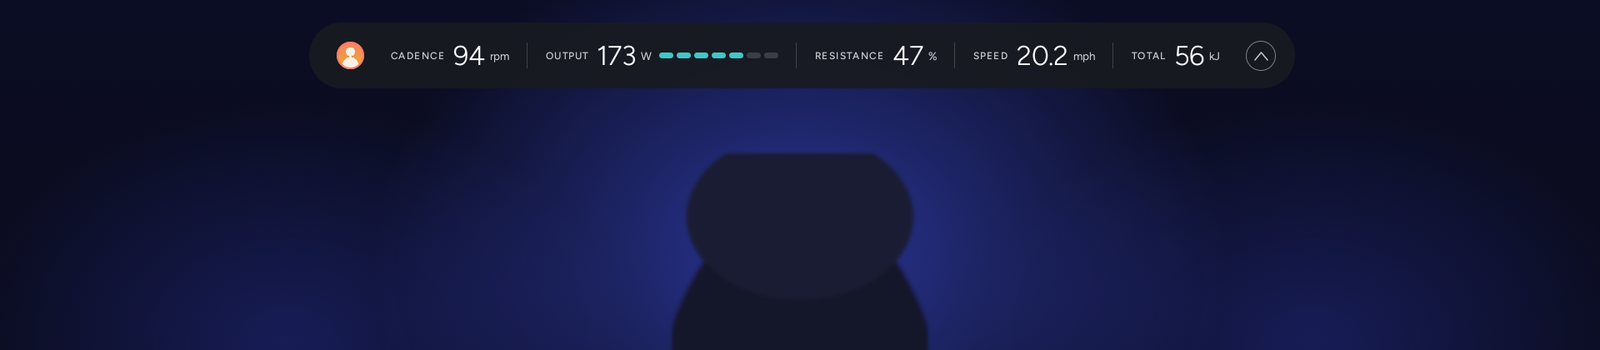
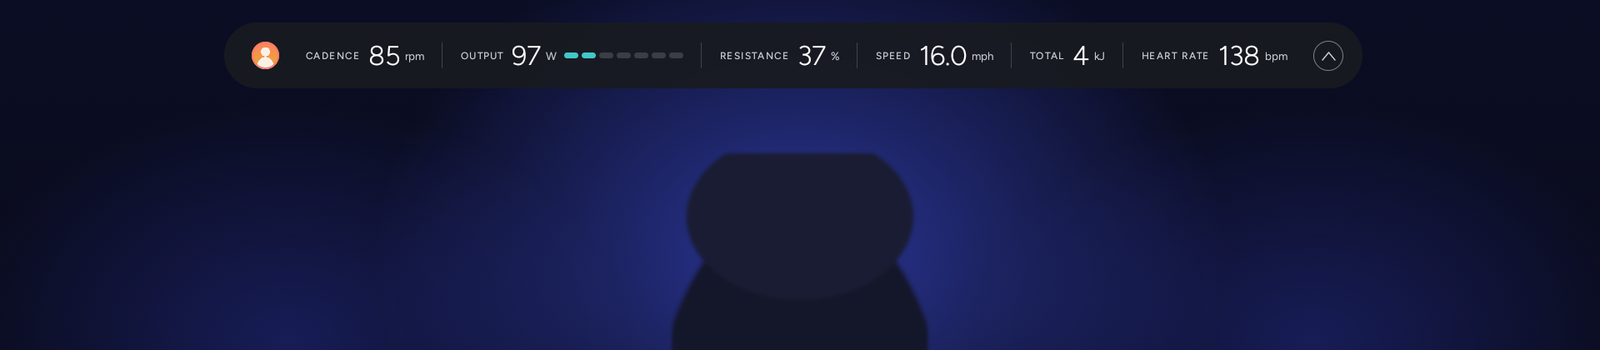
Update the README, screenshots and GIF for heart rate

Changed region(s): [[0.1562, 0.1143, 0.8438, 0.2]]

diff --git a/README.md b/README.md
@@ -9,19 +9,19 @@
 ![APK size](https://img.shields.io/badge/APK-under%201%20MB-41c7c7)
 ![License: MIT](https://img.shields.io/badge/License-MIT-lightgrey)
 
-<img src="docs/demo.gif" alt="PeloSkin over a spin class: the full metrics layout, a tap to shrink it to a single line, switching rider with the picture bubble, then holding the skin to end the ride and the summary card that follows" width="100%">
+<img src="docs/demo.gif" alt="PeloSkin over a spin class: the full layout with heart rate, switching rider with the picture bubble so the heart rate monitor switches too, a tap to shrink it to a single line and back, then holding the skin to end the ride and the summary card with output and heart rate" width="100%">
 
 </div>
 
 Why should your metrics depend on which app is playing your class?
 
 PeloSkin is a metrics skin for the Peloton bike's own tablet. It reads the bike's sensors
-directly and draws Peloton-style numbers over whatever is on the screen. It also keeps each
-rider's FTP, rides and personal records itself, so they stay with the rider whatever app or
-subscription they use.
+directly, connects to each rider's own Bluetooth heart rate monitor, and draws Peloton-style
+numbers over whatever is on the screen. It also keeps each rider's FTP, rides, heart rate and
+personal records itself, so they stay with the rider whatever app or subscription they use.
 
 Ride to the Peloton app with App+, Apple Fitness+ on another screen, a YouTube spin class, or a
-Netflix episode. Your output, zones, records and history look the same and live in one place.
+Netflix episode. Your output, heart rate, zones, records and history look the same and live in one place.
 
 ## Who it's for
 
@@ -68,11 +68,11 @@ what it's built for.
 | **Starts with the bike** | Starts at boot and after updates, and reconnects to the bike's sensors on its own. If Android restarts it mid-ride, the ride carries on. |
 | **One app** | Reads the bike itself, so there's nothing else to install or keep running. |
 
-<img src="docs/full.png" alt="PeloSkin full layout over a spin class: cadence, output and resistance with averages and bests, a power zone bar, the rider's picture, and a strip with speed, distance, total output and calories" width="100%">
+<img src="docs/full.png" alt="PeloSkin full layout over a spin class: cadence, output and resistance with averages and bests, a power zone bar, and a strip with the rider's picture, speed, distance, total output, calories and heart rate with its zone" width="100%">
 
-<img src="docs/compact.png" alt="PeloSkin single-line bar over a spin class, with the rider's picture, cadence, output with zone blocks, resistance, speed and total output" width="100%">
+<img src="docs/compact.png" alt="PeloSkin single-line bar over a spin class, with the rider's picture, cadence, output with zone blocks, resistance, speed, total output and heart rate" width="100%">
 
-<img src="docs/summary.png" alt="PeloSkin ride summary: total output, average output, cadence, distance and calories with changes from the last similar ride, an output graph with the FTP line, time in each power zone, and best 5-second, 1-minute and 5-minute efforts" width="70%">
+<img src="docs/summary.png" alt="PeloSkin ride summary: total output, average output, cadence, distance, calories and average heart rate, an output graph with the FTP line, a heart rate graph, time in each power zone and heart rate zone, and best efforts" width="70%">
 
 ## Supported bikes
 
@@ -191,7 +191,7 @@ can run at once, but Grupetto's own overlay will show as well.
 The settings screen puts the skin's on/off switch first, then *Who's riding* with the selected
 rider's card (FTP, records and rides), then the skin's layout, start-up and backup settings.
 
-<img src="docs/settings.png" alt="PeloSkin settings screen: the skin's status and Start button, the riders as pictures with an add button, the selected rider's card with FTP, personal records and recent rides, and skin settings below" width="100%">
+<img src="docs/settings.png" alt="PeloSkin settings screen: the skin's status, the riders as pictures with an add button, and the selected rider's card with lifetime totals, a connected heart rate monitor, max heart rate and zones, FTP and personal records" width="100%">
 
 ## FTP, the short version
 
